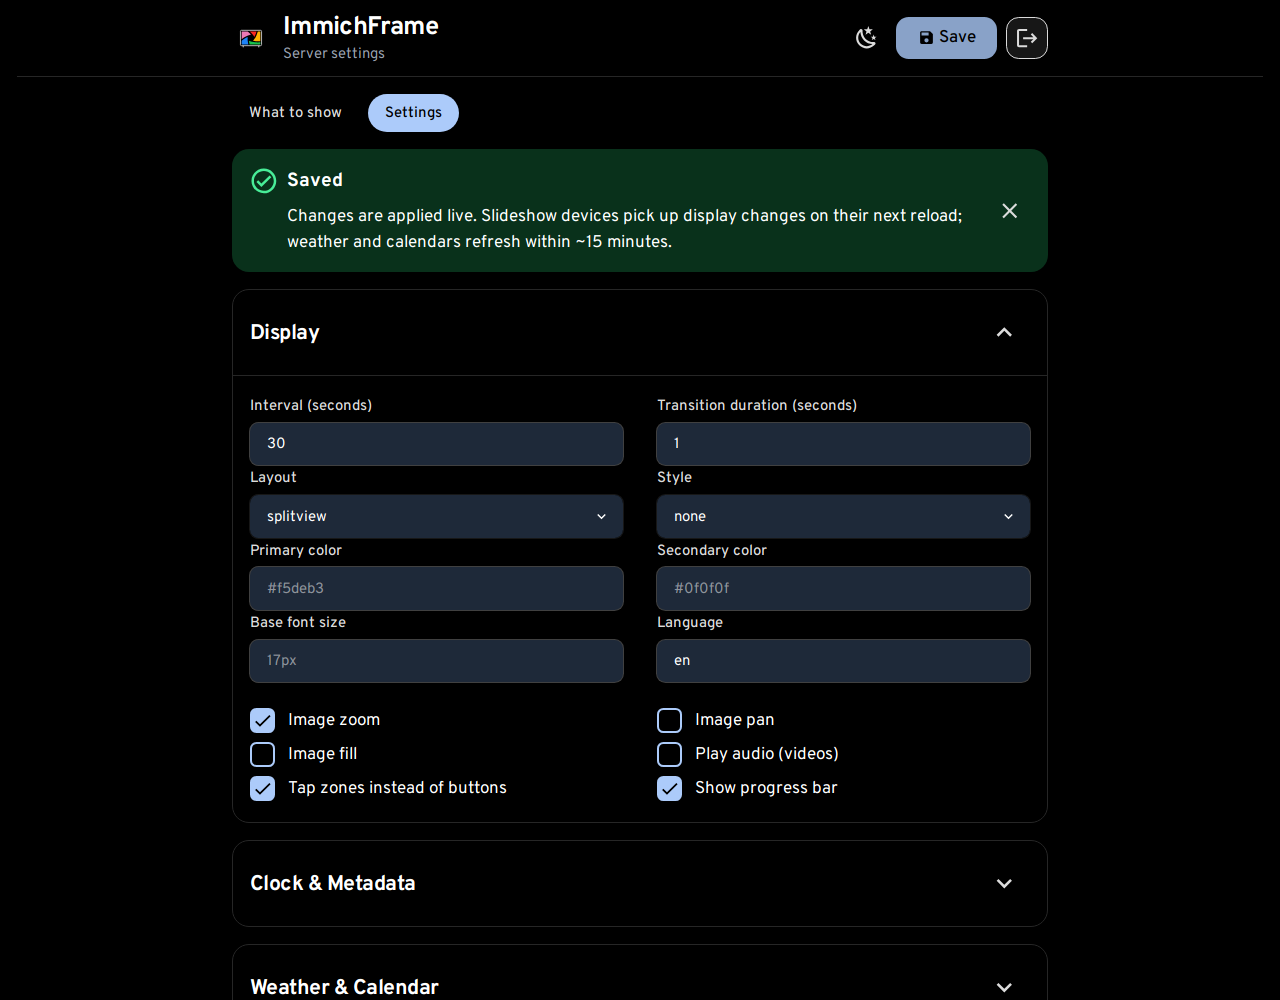
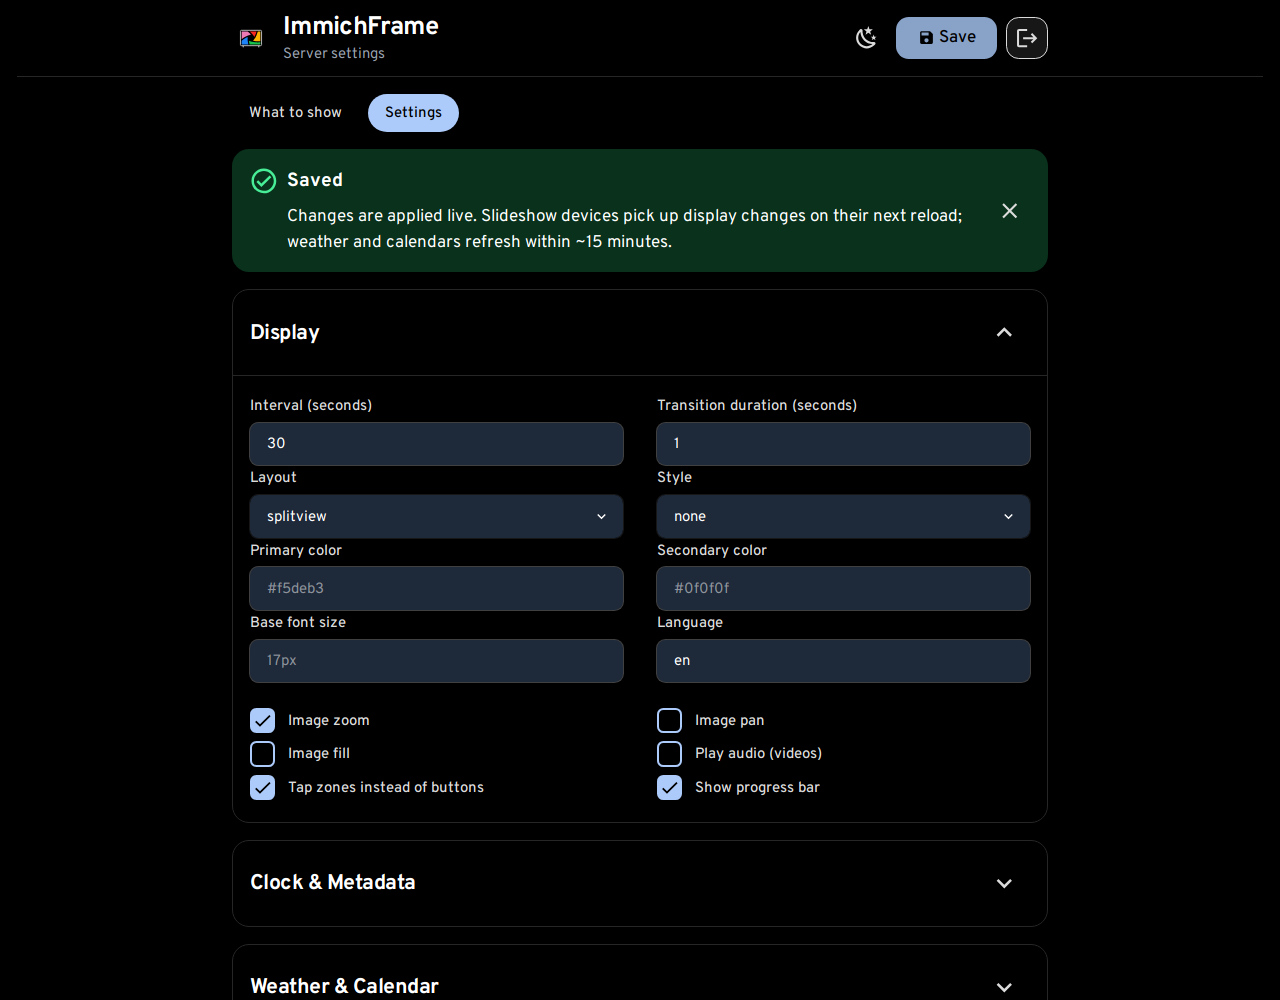
Admin: style checkbox labels like the field headings

diff --git a/immichFrame.Web/src/lib/components/admin/setting-field.svelte b/immichFrame.Web/src/lib/components/admin/setting-field.svelte
@@ -72,7 +72,7 @@
 			checked={target[field.key] === true}
 			onCheckedChange={(checked) => (target[field.key] = checked)}
 		/>
-		<span>{field.label}</span>
+		<span class="text-sm font-medium text-dark">{field.label}</span>
 	</label>
 	{#if field.help}
 		<HelperText>{field.help}</HelperText>
